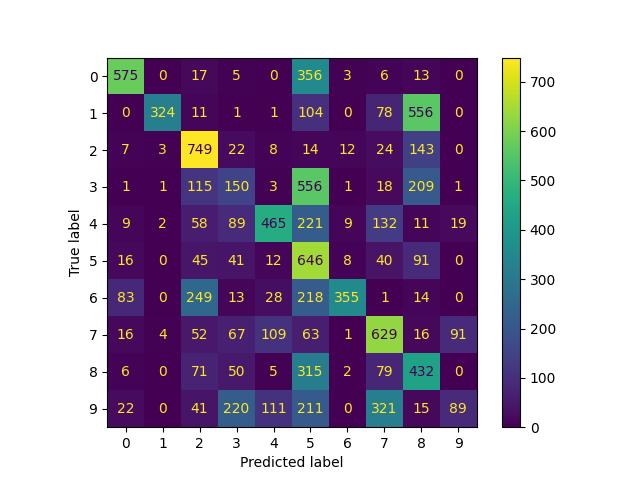
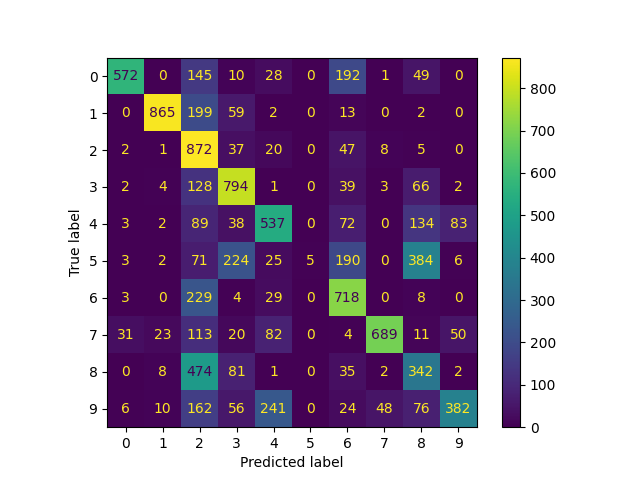
no iteration on classes

diff --git a/Maman11-Perceptron/perceptron_classifier.py b/Maman11-Perceptron/perceptron_classifier.py
@@ -7,12 +7,13 @@ def test(x, w_multi):
     x["preds"] = result_matrix.apply(np.argmax, axis=1)
 
 
-def train(x_train, y_train, max_iterations):
+def train(x_train, y_train, x_test, y_test, max_iterations):
     y_train_int = y_train.astype(int)
+    y_test_int = y_test.astype(int)
     y_train_onehot = pd.get_dummies(y_train_int).astype(int)
 
     # init weights vector for all classes
-    best_w_multi = np.random.uniform(-1, 1, (10, 785))
+    best_w_multi = np.random.uniform(0, 0, (10, 785))
 
     # for each class, add label '1' if the example belongs to the class, else '-1'
     y_train_onehot_labels = y_train_onehot.apply(lambda col: col * 2 - 1)
@@ -22,33 +23,36 @@ def train(x_train, y_train, max_iterations):
     error_count, idx_error = get_errors(x_train, y_train_int, w)
 
     errors_for_epoc = list()
+    test_errors_for_epoc = list()
 
     for epoch in range(max_iterations):
 
         if error_count > 0:
             # update weights for all classes according to their result on the misclassified example
-            for i in range(10):
-                xt = x_train.loc[idx_error]
-                yt = y_train_onehot_labels.loc[idx_error][i]
+            xt = x_train.loc[idx_error]
+            yt = y_train_onehot_labels.loc[idx_error]
 
-                # predict for single class
-                p = np.inner(xt, w[i])
-                pred = np.sign(p).astype(int)
-                if yt != pred:
-                    w[i] = w[i] + yt * np.array(xt)
+            ytshape = yt.values.reshape((10,1))
+            xtshape = xt.values.reshape((1, 785))
+
+            w = w + np.dot(ytshape, xtshape)
 
             error_count, idx_error = get_errors(x_train, y_train_int, w)
-            errors_for_epoc.append(error_count)
 
             # save pocket
             if error_count < min_error:
                 best_w_multi = w
                 min_error = error_count
+
+            test_errors, test_error_idx = get_errors(x_test, y_test_int, best_w_multi)
+            test_errors_for_epoc.append(test_errors / x_test.shape[0])
+            errors_for_epoc.append(min_error / x_train.shape[0])
+
         else:
             best_w_multi = w
             break
 
-    return best_w_multi, errors_for_epoc
+    return best_w_multi, errors_for_epoc, test_errors_for_epoc
 
 
 def get_errors(x_train, y_train, w):

diff --git a/Maman11-Perceptron/main.py b/Maman11-Perceptron/main.py
@@ -28,13 +28,13 @@ def run_perceptron():
     x_train.insert(0, 'Bias', 1)
     x_test.insert(0, 'Bias', 1)
 
-    w, loss = train(x_train, y_train, 50)
+    w, loss, test_loss = train(x_train, y_train, x_test, y_test, 100)
     test(x_test, w)
     actual = y_test.astype(int)
     preds = x_test["preds"]
 
     # Plot the loss graph
-    plt.plot(range(50), loss, marker='o')
+    plt.plot(range(100), loss, test_loss, marker='o')
     plt.xlabel('Epoch')
     plt.ylabel('Zero-One Loss')
     plt.title('Training Loss over Epochs')
